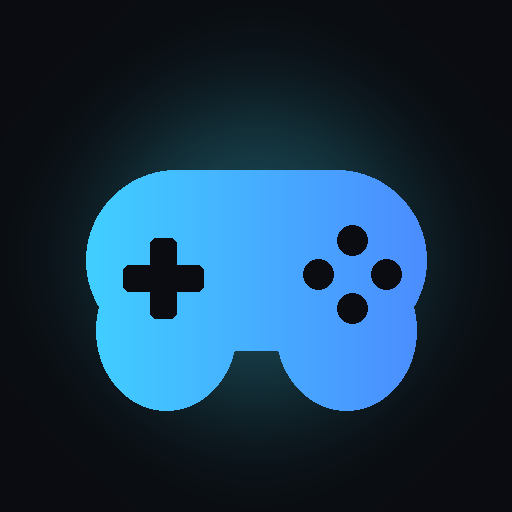
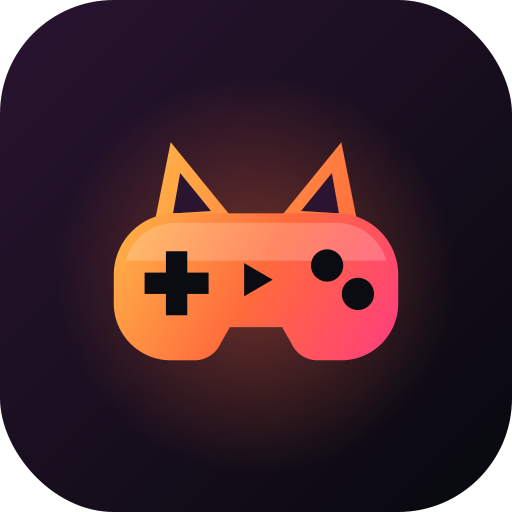
0.7.0: новая иконка, обновление из приложения
Claude-Session: https://claude.ai/code/session_01924755LCc1LCQVjnb2e1sW

diff --git a/app/src/main/java/com/svaga/emulator/Updates.kt b/app/src/main/java/com/svaga/emulator/Updates.kt
@@ -1,0 +1,120 @@
+package com.svaga.emulator
+
+import android.app.Activity
+import android.content.Context
+import android.content.Intent
+import android.net.Uri
+import android.os.Build
+import android.provider.Settings
+import androidx.compose.runtime.getValue
+import androidx.compose.runtime.mutableStateOf
+import androidx.compose.runtime.setValue
+import androidx.core.content.FileProvider
+import kotlinx.coroutines.CoroutineScope
+import kotlinx.coroutines.Dispatchers
+import kotlinx.coroutines.launch
+import kotlinx.coroutines.withContext
+import org.json.JSONObject
+import java.io.File
+import java.net.HttpURLConnection
+import java.net.URL
+
+/** Self-update from GitHub releases of SvagaGames/svaga-emulator (same key, so it installs over the current version). */
+object EmuUpdate {
+    var version by mutableStateOf<String?>(null)
+    var notes by mutableStateOf<String?>(null)
+    var progress by mutableStateOf<Float?>(null)
+    var file by mutableStateOf<File?>(null)
+    var checking by mutableStateOf(false)
+    var upToDate by mutableStateOf<Boolean?>(null)
+    var failed by mutableStateOf(false)
+    var dismissed by mutableStateOf(false)
+    private var url: String? = null
+
+    fun isNewer(remote: String, local: String): Boolean {
+        fun parts(v: String) = v.trim().removePrefix("v").split('.', '-').map { it.toIntOrNull() ?: 0 }
+        val a = parts(remote); val b = parts(local)
+        for (i in 0 until maxOf(a.size, b.size)) {
+            val x = a.getOrElse(i) { 0 }; val y = b.getOrElse(i) { 0 }
+            if (x != y) return x > y
+        }
+        return false
+    }
+
+    fun check(ctx: Context, manual: Boolean) {
+        val prefs = ctx.getSharedPreferences("svaga_updates", Context.MODE_PRIVATE)
+        val now = System.currentTimeMillis()
+        if (!manual && now - prefs.getLong("last_check", 0) < 6 * 3600 * 1000L) {
+            val v = prefs.getString("version", null)
+            val u = prefs.getString("url", null)
+            if (v != null && u != null && isNewer(v, BuildConfig.VERSION_NAME)) { version = v; url = u }
+            return
+        }
+        checking = true
+        upToDate = null
+        failed = false
+        CoroutineScope(Dispatchers.Main).launch {
+            try {
+                val o = withContext(Dispatchers.IO) {
+                    val c = URL("https://api.github.com/repos/SvagaGames/svaga-emulator/releases/latest").openConnection() as HttpURLConnection
+                    c.setRequestProperty("Accept", "application/vnd.github+json")
+                    c.connectTimeout = 15000; c.readTimeout = 20000
+                    if (c.responseCode !in 200..299) throw java.io.IOException("http ${c.responseCode}")
+                    JSONObject(c.inputStream.bufferedReader().use { it.readText() })
+                }
+                val v = o.optString("tag_name").removePrefix("v")
+                val assets = o.optJSONArray("assets")
+                var u: String? = null
+                if (assets != null) for (i in 0 until assets.length()) {
+                    val a = assets.getJSONObject(i)
+                    if (a.optString("name") == "SvagaEmulator.apk") u = a.optString("browser_download_url")
+                }
+                prefs.edit().putLong("last_check", now).putString("version", v).putString("url", u).apply()
+                if (u != null && v.isNotBlank() && isNewer(v, BuildConfig.VERSION_NAME)) {
+                    version = v; url = u; notes = o.optString("body").ifBlank { null }; dismissed = false; upToDate = false
+                } else {
+                    version = null; upToDate = true
+                }
+            } catch (e: Exception) {
+                if (manual) failed = true
+            } finally {
+                checking = false
+            }
+        }
+    }
+
+    fun start(activity: Activity, net: Net) {
+        val u = url ?: return
+        if (progress != null) return
+        progress = 0f
+        failed = false
+        CoroutineScope(Dispatchers.Main).launch {
+            try {
+                val dir = File(activity.cacheDir, "updates").apply { mkdirs(); listFiles()?.forEach { it.delete() } }
+                val f = File(dir, "SvagaEmulator-${version ?: "new"}.apk")
+                net.download(u, f) { p -> activity.runOnUiThread { progress = p } }
+                file = f
+                progress = null
+                install(activity)
+            } catch (e: Exception) {
+                progress = null
+                failed = true
+            }
+        }
+    }
+
+    fun install(activity: Activity) {
+        val f = file ?: return
+        if (Build.VERSION.SDK_INT >= Build.VERSION_CODES.O && !activity.packageManager.canRequestPackageInstalls()) {
+            activity.startActivity(Intent(Settings.ACTION_MANAGE_UNKNOWN_APP_SOURCES, Uri.parse("package:${activity.packageName}")))
+            return
+        }
+        val uri = FileProvider.getUriForFile(activity, "${activity.packageName}.files", f)
+        runCatching {
+            activity.startActivity(
+                Intent(Intent.ACTION_VIEW).setDataAndType(uri, "application/vnd.android.package-archive")
+                    .addFlags(Intent.FLAG_GRANT_READ_URI_PERMISSION or Intent.FLAG_ACTIVITY_NEW_TASK),
+            )
+        }.onFailure { failed = true }
+    }
+}

diff --git a/app/src/main/java/com/svaga/emulator/MainActivity.kt b/app/src/main/java/com/svaga/emulator/MainActivity.kt
@@ -73,6 +73,7 @@ class MainActivity : ComponentActivity() {
         roms = store.all()
         signedIn = session.signedIn
         if (savedInstanceState == null) handleIntent(intent)
+        EmuUpdate.check(this, manual = false)
         setContent { SvagaTheme { Root() } }
     }
 
@@ -254,6 +255,7 @@ class MainActivity : ComponentActivity() {
                                     .clickable { picker.launch(arrayOf("*/*")) }.padding(horizontal = 14.dp, vertical = 8.dp),
                             )
                         }
+                        UpdateBanner()
                         pendingGameName?.let { name ->
                             val rel = pendingRelease
                             SvCard(Modifier.fillMaxWidth().padding(bottom = 12.dp), border = Amber.copy(alpha = 0.6f)) {
@@ -317,6 +319,33 @@ class MainActivity : ComponentActivity() {
                 onPlay = { selected = null; play(rom) },
                 onDelete = { store.delete(rom); roms = store.all(); selected = null },
             )
+        }
+    }
+
+    @Composable
+    private fun UpdateBanner() {
+        val v = EmuUpdate.version
+        if ((v == null && EmuUpdate.file == null) || EmuUpdate.dismissed) return
+        SvCard(Modifier.fillMaxWidth().padding(bottom = 12.dp), border = Cyan.copy(alpha = 0.6f)) {
+            val p = EmuUpdate.progress
+            Body(
+                when {
+                    EmuUpdate.file != null -> stringResource(R.string.update_ready)
+                    p != null -> stringResource(R.string.update_downloading, (p * 100).toInt())
+                    else -> stringResource(R.string.update_available_v, v ?: "")
+                },
+                bold = true,
+            )
+            if (p != null) { Spacer(Modifier.height(8.dp)); ProgressLine(p, Cyan) }
+            if (EmuUpdate.failed) Caption(stringResource(R.string.update_failed), color = Red)
+            if (p == null) {
+                Spacer(Modifier.height(10.dp))
+                Row(horizontalArrangement = Arrangement.spacedBy(10.dp)) {
+                    if (EmuUpdate.file != null) SvButton(stringResource(R.string.update_install), { EmuUpdate.install(this@MainActivity) }, Modifier.weight(1f))
+                    else SvButton(stringResource(R.string.update_get), { EmuUpdate.start(this@MainActivity, net) }, Modifier.weight(1f))
+                    SvButton(stringResource(R.string.later), { EmuUpdate.dismissed = true }, kind = BtnKind.Secondary)
+                }
+            }
         }
     }
 
@@ -740,6 +769,26 @@ class MainActivity : ComponentActivity() {
                         runCatching { startActivity(Intent(Intent.ACTION_VIEW, android.net.Uri.parse("https://svagagames.github.io/svaga-archive/"))) }
                     }, Modifier.fillMaxWidth(), kind = BtnKind.Ghost, accent = Cyan)
                 }
+            }
+            Spacer(Modifier.height(16.dp))
+            SvCard(Modifier.fillMaxWidth(), onClick = {
+                when {
+                    EmuUpdate.file != null -> EmuUpdate.install(this@MainActivity)
+                    EmuUpdate.version != null -> { EmuUpdate.dismissed = false; EmuUpdate.start(this@MainActivity, net) }
+                    else -> EmuUpdate.check(this@MainActivity, manual = true)
+                }
+            }) {
+                Body(stringResource(R.string.update_title) + " · v" + BuildConfig.VERSION_NAME, bold = true)
+                Caption(
+                    when {
+                        EmuUpdate.checking -> stringResource(R.string.update_checking)
+                        EmuUpdate.progress != null -> stringResource(R.string.update_downloading, ((EmuUpdate.progress ?: 0f) * 100).toInt())
+                        EmuUpdate.version != null -> stringResource(R.string.update_available_v, EmuUpdate.version ?: "")
+                        EmuUpdate.upToDate == true -> stringResource(R.string.update_latest)
+                        EmuUpdate.failed -> stringResource(R.string.update_failed)
+                        else -> stringResource(R.string.update_hint)
+                    },
+                )
             }
             Spacer(Modifier.height(16.dp))
             SvCard(Modifier.fillMaxWidth()) {

diff --git a/CHANGELOG.md b/CHANGELOG.md
@@ -1,3 +1,8 @@
+## 0.7.0
+
+- Новая иконка: геймпад с лисьими ушками Svaga.
+- Обновление прямо из эмулятора: проверка новой версии, загрузка и установка поверх.
+
 ## 0.6.0
 
 - «Войти через Svaga Archive»: вход без пароля, если вы вошли в Archive через Google, Яндекс или VK.
